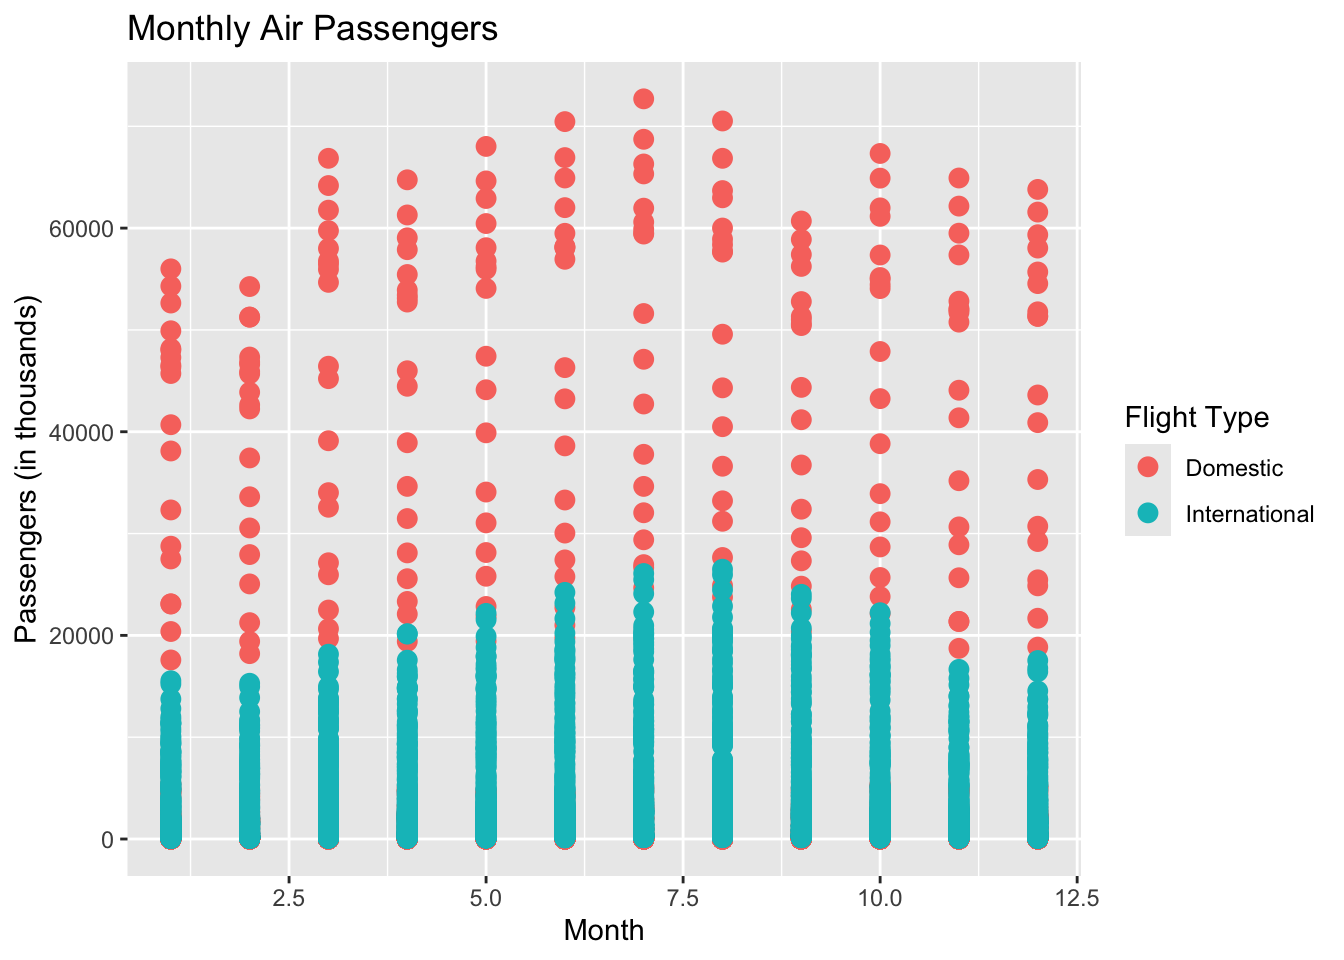
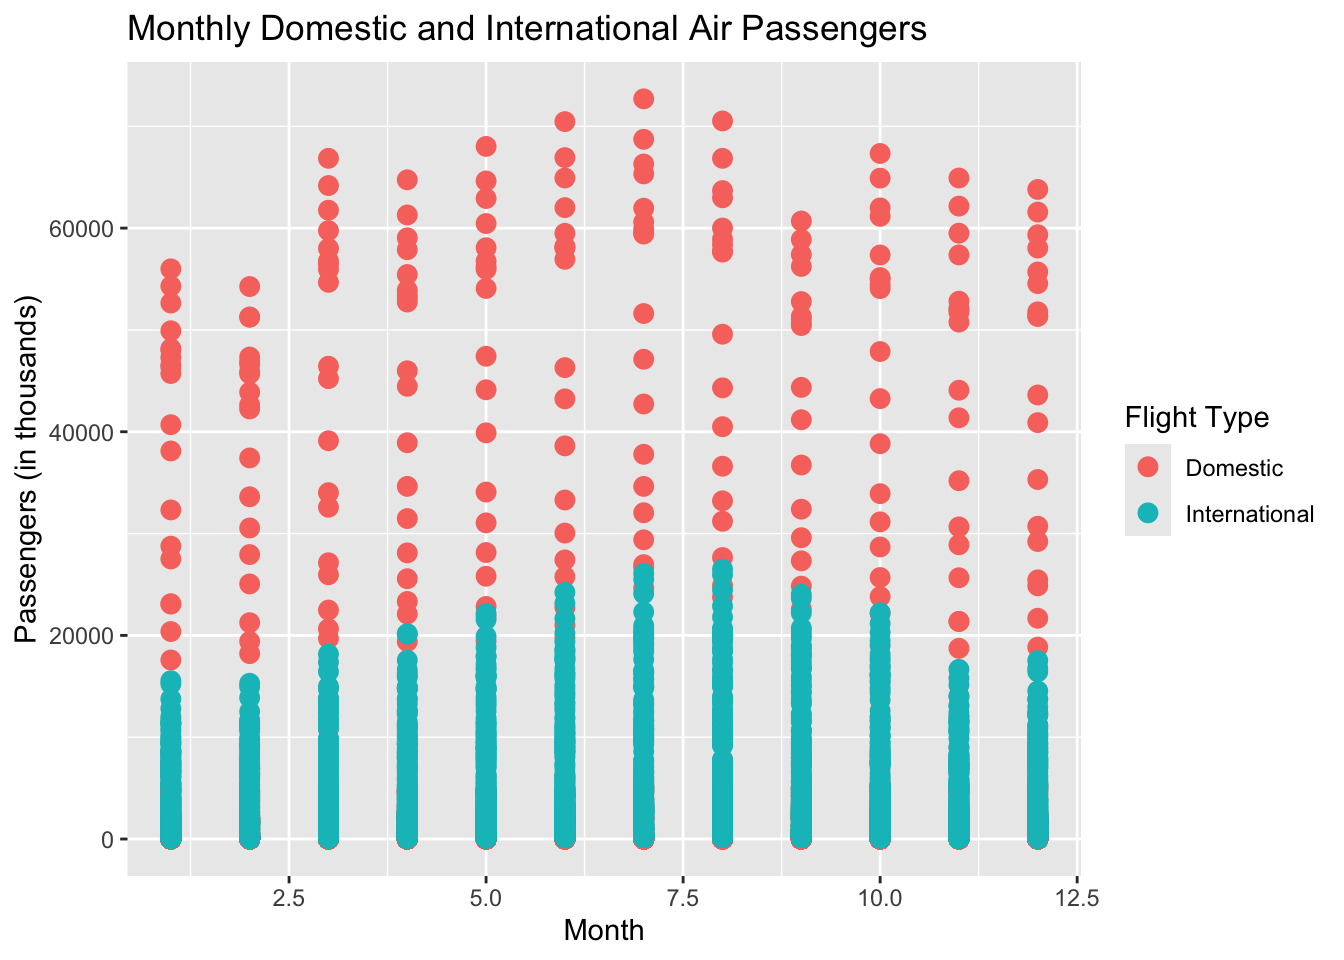
Should be complete.

Changed region(s): [[0.1875, 0.0, 0.6875, 0.0625]]

diff --git a/docs/holiday_travel.html b/docs/holiday_travel.html
@@ -7,7 +7,7 @@
 <meta name="viewport" content="width=device-width, initial-scale=1.0, user-scalable=yes">
 
 <meta name="author" content="Hudson Colletti">
-<meta name="dcterms.date" content="2025-02-16">
+<meta name="dcterms.date" content="2025-02-17">
 <meta name="description" content="Analysis of Global Holiday Travel data from TidyTuesday">
 
 <title>Project 1 - Holiday Travel</title>
@@ -104,6 +104,10 @@ ul.task-list li input[type="checkbox"] {
     <a class="dropdown-item" href="./valentines_day.html">
  <span class="dropdown-text">Valentine’s Day</span></a>
   </li>  
+        <li>
+    <a class="dropdown-item" href="./holiday_travel.html">
+ <span class="dropdown-text">Holiday Travel</span></a>
+  </li>  
     </ul>
   </li>
 </ul>
@@ -147,7 +151,7 @@ ul.task-list li input[type="checkbox"] {
     <div>
     <div class="quarto-title-meta-heading">Published</div>
     <div class="quarto-title-meta-contents">
-      <p class="date">February 16, 2025</p>
+      <p class="date">February 17, 2025</p>
     </div>
   </div>
   
@@ -159,6 +163,9 @@ ul.task-list li input[type="checkbox"] {
 </header>
 
 
+<p>The data set used in this project, <strong>Global Holidays and Travel</strong>, is sourced from <a href="https://github.com/rfordatascience/tidytuesday/tree/main/data/2024/2024-12-24">TidyTuesday</a>. TidyTuesday is a weekly R project that encourages users to create visualizations using that week’s data set for wrangling and visualizing the data.</p>
+<p>This particular data set is from December 24, 2024. It was found through an <a href="https://www.nature.com/articles/s41597-022-01120-z">article</a> by Shengjie Lai (et al). The information presented is available thanks to funding from The Bill and Melinda Gates Foundation. The data was then curated by Jon Harmon. Sources for the data itself are cited below.</p>
+<p>In analyzing the data set, I decided to look for a relationship between the time of year and the number passengers while separating individuals dependent on whether the flight was domestic or international.</p>
 <div class="cell">
 <div class="cell-output-display">
 <div>
@@ -168,6 +175,11 @@ ul.task-list li input[type="checkbox"] {
 </div>
 </div>
 </div>
+<p>Taking a look at the chart, we can observe that travel seems to have a cyclical nature. During the summer months of the year, June - September, flights seem to pick up and more individuals are traveling. This shift seems realistic as individuals typically travel during the warmer months of the year and when their children are on summer break. Domestic flights also seem to pick up towards the end of the year (holiday season).</p>
+<p>Additionally, domestic flights consistently have higher passenger volumes compared to international flights across all 12 months of the year. Normally, international flights stay below 30,000 passengers per month. With this idea, domestic travel shows much more variability in passenger numbers compared to international travel.</p>
+<p>Citations:</p>
+<p>Lai S., Sorichetta A. and WorldPop (2020). Global Public and School Holidays 2010-2019. Mapping seasonal denominator dynamics in low- and middle-income settings, and Exploring the seasonality of COVID-19, funded by The Bill and Melinda Gates Foundation.</p>
+<p>Lai S., Sorichetta A. and WorldPop (2020). Monthly volume of airline passengers in 90 countries 2010-2018. Mapping seasonal denominator dynamics in low- and middle-income settings, and Exploring the seasonality of COVID-19, funded by The Bill and Melinda Gates Foundation.</p>
 
 
 

diff --git a/docs/valentines_day.html b/docs/valentines_day.html
@@ -7,7 +7,7 @@
 <meta name="viewport" content="width=device-width, initial-scale=1.0, user-scalable=yes">
 
 <meta name="author" content="Hudson Colletti">
-<meta name="dcterms.date" content="2025-02-16">
+<meta name="dcterms.date" content="2025-02-17">
 <meta name="description" content="Analysis of Valentines Day data from TidyTuesday">
 
 <title>Project 1 - Valentines Day</title>
@@ -104,6 +104,10 @@ ul.task-list li input[type="checkbox"] {
     <a class="dropdown-item" href="./valentines_day.html">
  <span class="dropdown-text">Valentine’s Day</span></a>
   </li>  
+        <li>
+    <a class="dropdown-item" href="./holiday_travel.html">
+ <span class="dropdown-text">Holiday Travel</span></a>
+  </li>  
     </ul>
   </li>
 </ul>
@@ -147,7 +151,7 @@ ul.task-list li input[type="checkbox"] {
     <div>
     <div class="quarto-title-meta-heading">Published</div>
     <div class="quarto-title-meta-contents">
-      <p class="date">February 16, 2025</p>
+      <p class="date">February 17, 2025</p>
     </div>
   </div>
   
@@ -159,6 +163,9 @@ ul.task-list li input[type="checkbox"] {
 </header>
 
 
+<p>The data set used in this project, <strong>Valentine’s Day Consumer Data</strong>, is sourced from <a href="https://github.com/rfordatascience/tidytuesday/tree/main/data/2024/2024-02-13">TidyTuesday</a>. TidyTuesday is a weekly R project that encourages users to create visualizations using that week’s data set for wrangling and visualizing the data.</p>
+<p>This particular data set is from the February 13, 2024 edition of TidyTuesday. Using information from surveys conducted by the National Retail Federation in the United States, we have information on how individual’s celebrate Valentine’s Day annually. The data in this project is form 2010 to 2022, thanks to <a href="https://www.kaggle.com/datasets/infinator/happy-valentines-day-2022">Suraj Das’s work on Kaggle</a>.</p>
+<p>In analyzing the data set, I decided to look for a relationship between the average amount spent on Valentine’s Day gifts and the percent of individuals celebrating the holiday.</p>
 <div class="cell">
 <div class="cell-output-display">
 <div>
@@ -168,6 +175,8 @@ ul.task-list li input[type="checkbox"] {
 </div>
 </div>
 </div>
+<p>Analyzing this chart, we observe a relatively negative correlation between the two variables. A possible trend that one could suggest through this visualization is that during years when there is a smaller proportion of individuals celebrating the holiday in a given year, those who do decide to celebrate are much more passionate about their gifts. This may give reason to why the average amount spent per person is marginally higher during years where the percent celebrating Valentine’s Day is lower in comparison to other years.</p>
+<p>Conversely and more realistically, one could interpret the visualization in saying that as more people celebrate, total spending is spread across a broader population. A larger spread could possibly lower the average amount per person as the effect of an extreme outlier would not be as influential as it is in a year with less people celebrating. An average is a value that is greatly affected by outliers, but as the number of observations increases, the effect of the outlier weakens.</p>
 
 
 

diff --git a/docs/index.html b/docs/index.html
@@ -100,6 +100,10 @@ ul.task-list li input[type="checkbox"] {
     <a class="dropdown-item" href="./valentines_day.html">
  <span class="dropdown-text">Valentine’s Day</span></a>
   </li>  
+        <li>
+    <a class="dropdown-item" href="./holiday_travel.html">
+ <span class="dropdown-text">Holiday Travel</span></a>
+  </li>  
     </ul>
   </li>
 </ul>
@@ -125,8 +129,8 @@ ul.task-list li input[type="checkbox"] {
 <div class="quarto-title-meta column-page">
   </div>
 </header><main class="content column-page" id="quarto-document-content">
-<p>Welcome to my website! Here are a few links with more information about myself.</p>
 <p>Hi! I am a sophomore at Pomona College studying Math and Economics with a Minor in Data Science. Growing up in Pittsburgh, PA, I found the transition to living in California difficult at first but now love it. Professionally, I am currently pursuing a career in Investment Banking or Private Equity. Outside of professional and academic interests, I am currently training for an Ironman, love golfing, and enjoy playing poker in my free time.</p>
+<p>Here are a few links with more information about myself and the code for this website.</p>
 
 
 </main> 
